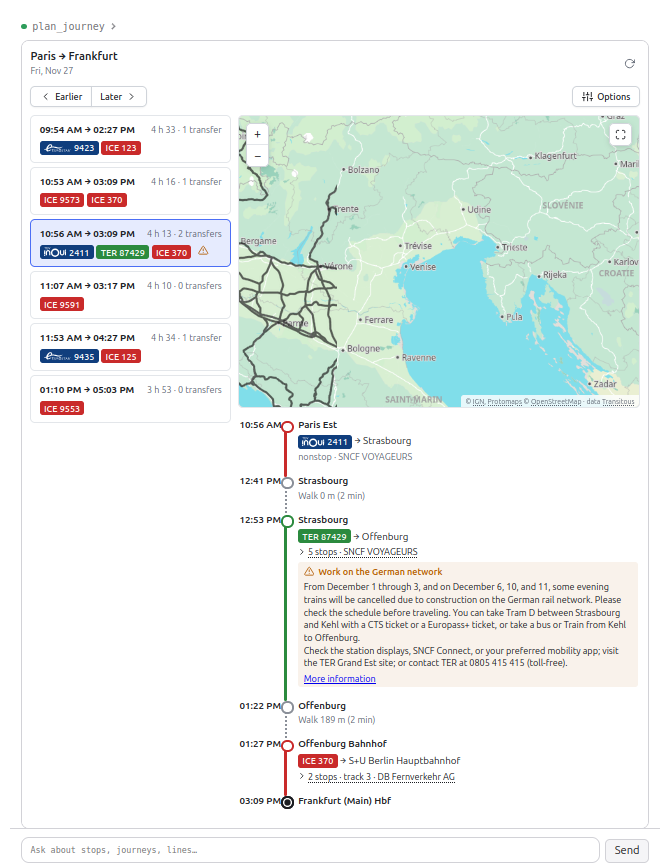
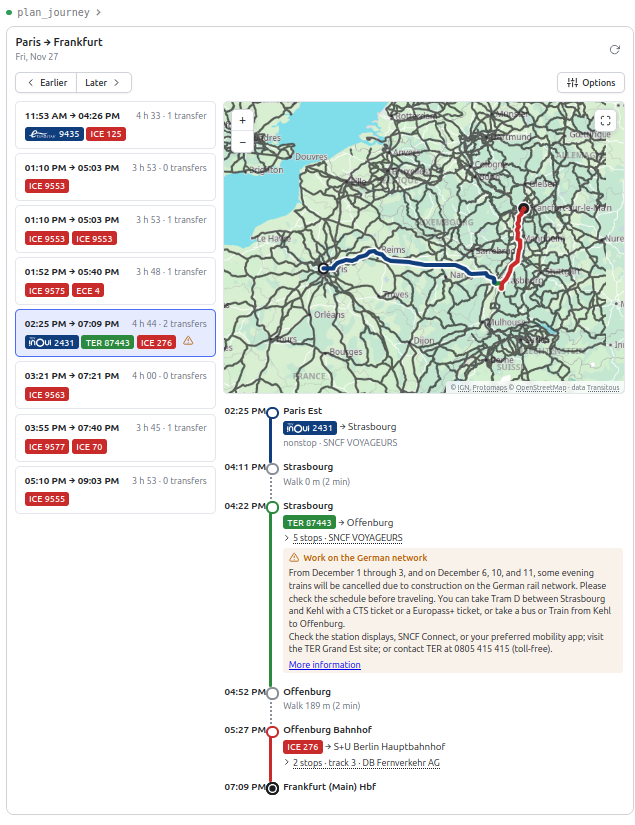
docs: a screenshot and a description of each view in the README, the boards of the operators in 24-hour time
- README: a Views section, with an English screenshot of each view (docs/screenshots/) and what it shows
- home-journey.png: the screenshot of the demo in English
- the boards in the style of an operator (SNCF, DB, SBB, SNCB, NS, RFI, ADIF, National Rail) show their times with
  the 24-hour clock whatever the language, as the boards of the stations: in English, "11:46 AM" did not fit in
  their time columns (on two lines, cut on the RFI board)

diff --git a/ui/src/boards/sncf.ts b/ui/src/boards/sncf.ts
@@ -1,5 +1,5 @@
 // Board of the French railway stations, like the ones of the SNCF stations (and of Carto Tchoo).
-import { esc, lineBadge, time } from "../shared/format";
+import { esc, lineBadge, boardTime } from "../shared/format";
 import { t } from "../shared/i18n";
 import { RAIL_MODES, linePictogram, train } from "../shared/sncf";
 import type { StopTimeDto } from "../shared/types";
@@ -19,7 +19,7 @@ function row({ st, index, arriveBy, tz, classes, alertMark, alertLine, markTheor
   const number = train(st.mode, st.line, st.agency, st.trainNumber)?.number;
   // the end of the trip (origin of an arrival) is the big label: the intermediate stops are on the second line
   const { label, via: stops } = tripEnd(st, arriveBy);
-  const via = stops.map((s) => `<span class="etape">${esc(s.name)} ${time(s.time, tz)}</span>`).join(`<span class="point"> • </span>`);
+  const via = stops.map((s) => `<span class="etape">${esc(s.name)} ${boardTime(s.time, tz)}</span>`).join(`<span class="point"> • </span>`);
   const delay = delayOf(st);
   let status = "";
   let state = "";
@@ -27,7 +27,7 @@ function row({ st, index, arriveBy, tz, classes, alertMark, alertLine, markTheor
     status = `<span class="min deleted">${t("departures.cancelled")}</span>`;
     state = "deleted";
   } else if (delay > 0) {
-    status = `<span class="min" title="${t("departures.expected", { time: time(st.time, tz) })}">${t("departures.delay", { minutes: delay })}</span>`;
+    status = `<span class="min" title="${t("departures.expected", { time: boardTime(st.time, tz) })}">${t("departures.delay", { minutes: delay })}</span>`;
     state = "delayed";
   } else if (markTheoretical && !st.realTime) {
     status = theoreticalMark();
@@ -38,7 +38,7 @@ function row({ st, index, arriveBy, tz, classes, alertMark, alertLine, markTheor
         <div class="main-line">
           <span class="origine">${origin(st)}</span>
           <span class="numero">${esc(number)}</span>
-          <span class="heure">${time(st.scheduledTime ?? st.time, tz)}</span>
+          <span class="heure">${boardTime(st.scheduledTime ?? st.time, tz)}</span>
           <span class="station-label"><span>${esc(label)}</span>${alertMark}${status}</span>
         </div>
         <div class="second-line" title="${esc(stops.map((s) => s.name).join(" • "))}">${via}</div>

diff --git a/ui/src/boards/db.ts b/ui/src/boards/db.ts
@@ -1,6 +1,6 @@
 // Board of the German railway stations, like the timetables posted at the stations of the Deutsche Bahn: yellow
 // "Abfahrt" for the departures, white "Ankunft" for the arrivals, the long-distance trains in red.
-import { esc, lineBadge, time } from "../shared/format";
+import { esc, lineBadge, boardTime } from "../shared/format";
 import { t } from "../shared/i18n";
 import { RAIL_MODES } from "../shared/sncf";
 import type { StopTimeDto } from "../shared/types";
@@ -26,18 +26,18 @@ function product(st: StopTimeDto): string {
 
 function row({ st, index, arriveBy, tz, classes, alertMark, alertLine, markTheoretical }: BoardRow): string {
   const end = tripEnd(st, arriveBy);
-  const via = end.via.map((s) => `${esc(s.name)} ${time(s.time, tz)}`).join(" – ");
+  const via = end.via.map((s) => `${esc(s.name)} ${boardTime(s.time, tz)}`).join(" – ");
   const delay = delayOf(st);
   let status = "";
   if (st.cancelled) status = `<span class="ausfall">${t("departures.cancelled")}</span>`;
   else if (delay > 0)
-    status = `<span class="verspaetung" title="${t("departures.expected", { time: time(st.time, tz) })}">${t("departures.delay", { minutes: delay })}</span>`;
+    status = `<span class="verspaetung" title="${t("departures.expected", { time: boardTime(st.time, tz) })}">${t("departures.delay", { minutes: delay })}</span>`;
   else if (markTheoretical && !st.realTime) status = theoreticalMark();
   const state = [LONG_DISTANCE_MODES.has(st.mode) ? "fern" : "", st.cancelled ? "deleted" : "", classes].filter(Boolean).join(" ");
-  const endTime = end.time ? ` <span class="ziel-zeit">${time(end.time, tz)}</span>` : "";
+  const endTime = end.time ? ` <span class="ziel-zeit">${boardTime(end.time, tz)}</span>` : "";
   return `
     <li class="train ${state}" data-index="${index}">
-      <span class="zeit">${time(st.scheduledTime ?? st.time, tz)}</span>
+      <span class="zeit">${boardTime(st.scheduledTime ?? st.time, tz)}</span>
       <span class="zug">${product(st)}</span>
       <div class="richtung">
         <div class="ziel"><span><strong>${esc(end.label)}</strong>${endTime}</span>${alertMark}${status}</div>

diff --git a/ui/src/boards/ns.ts b/ui/src/boards/ns.ts
@@ -1,6 +1,6 @@
 // Board of the Dutch railway stations, like the departure screens of the NS stations: white on the blue of the NS,
 // the columns Vertrek, Naar, Spoor, Trein, the track on the yellow of the NS, the delays next to the time ("+5").
-import { esc, time } from "../shared/format";
+import { esc, boardTime } from "../shared/format";
 import { t } from "../shared/i18n";
 import { RAIL_MODES } from "../shared/sncf";
 import { delayOf, railwayStationIn, theoreticalMark, trainName, tripEnd, type BoardRow, type CountryBoard } from "./row";
@@ -9,7 +9,7 @@ function row({ st, index, arriveBy, tz, classes, alertMark, alertLine, markTheor
   const end = tripEnd(st, arriveBy);
   const via = end.via.map((s) => esc(s.name)).join(", ");
   const delay = delayOf(st);
-  const late = !st.cancelled && delay > 0 ? `<span class="vertraging" title="${t("departures.expected", { time: time(st.time, tz) })}">+${delay}</span>` : "";
+  const late = !st.cancelled && delay > 0 ? `<span class="vertraging" title="${t("departures.expected", { time: boardTime(st.time, tz) })}">+${delay}</span>` : "";
   let status = "";
   if (st.cancelled) status = `<span class="rijdt-niet">${t("departures.cancelled")}</span>`;
   else if (markTheoretical && !st.realTime) status = theoreticalMark();
@@ -17,7 +17,7 @@ function row({ st, index, arriveBy, tz, classes, alertMark, alertLine, markTheor
   const type = trainName(st)?.category ?? st.line;
   return `
     <li class="train ${st.cancelled ? "deleted" : ""} ${classes}" data-index="${index}">
-      <span class="vertrek">${time(st.scheduledTime ?? st.time, tz)}${late}</span>
+      <span class="vertrek">${boardTime(st.scheduledTime ?? st.time, tz)}${late}</span>
       <div class="naar">
         <div class="bestemming"><span>${esc(end.label)}</span>${alertMark}${status}</div>
         <div class="via" title="${esc(via)}">${via}</div>

diff --git a/ui/src/boards/rfi.ts b/ui/src/boards/rfi.ts
@@ -1,7 +1,7 @@
 // Board of the Italian railway stations, like the arrivals & departures monitors of RFI: the column labels on a yellow
 // band, the rows alternately pale yellow and dark grey, a line per train (brand, category, number, destination in
 // capitals, time, delay, platform).
-import { esc, time } from "../shared/format";
+import { esc, boardTime } from "../shared/format";
 import { t } from "../shared/i18n";
 import { RAIL_MODES } from "../shared/sncf";
 import type { StopTimeDto } from "../shared/types";
@@ -36,7 +36,7 @@ function row({ st, index, arriveBy, tz, classes, alertMark, alertLine, markTheor
   const { brand, category, number } = trainColumns(st);
   const delay = delayOf(st);
   let ritardo = "";
-  if (!st.cancelled && delay > 0) ritardo = `<span title="${t("departures.expected", { time: time(st.time, tz) })}">${delay}</span>`;
+  if (!st.cancelled && delay > 0) ritardo = `<span title="${t("departures.expected", { time: boardTime(st.time, tz) })}">${delay}</span>`;
   else if (!st.cancelled && markTheoretical && !st.realTime) ritardo = theoreticalMark();
   const cancelled = st.cancelled ? `<span class="soppresso">${t("departures.cancelled")}</span>` : "";
   const stops = end.via.map((s) => s.name).join(" · ");
@@ -49,7 +49,7 @@ function row({ st, index, arriveBy, tz, classes, alertMark, alertLine, markTheor
         <div class="nome" title="${esc(stops)}"><span>${esc(end.label)}</span>${alertMark}${cancelled}</div>
         ${alertLine}
       </div>
-      <span class="orario">${time(st.scheduledTime ?? st.time, tz)}</span>
+      <span class="orario">${boardTime(st.scheduledTime ?? st.time, tz)}</span>
       <span class="ritardo">${ritardo}</span>
       <span class="binario" title="${st.track ? t("track", { track: esc(st.track) }) : ""}">${esc(st.track)}</span>
     </li>`;

diff --git a/ui/src/boards/nationalRail.ts b/ui/src/boards/nationalRail.ts
@@ -1,7 +1,7 @@
 // Board of the British railway stations, like the dot-matrix boards of the National Rail stations: amber on black,
 // the columns Time, Destination, Plat, Expected ("On time", the expected time, "Cancelled"), the stops and the operator
 // below the destination.
-import { esc, time } from "../shared/format";
+import { esc, boardTime } from "../shared/format";
 import { t } from "../shared/i18n";
 import { RAIL_MODES } from "../shared/sncf";
 import { delayOf, railwayStationIn, theoreticalMark, tripEnd, type BoardRow, type CountryBoard } from "./row";
@@ -11,12 +11,12 @@ function row({ st, index, arriveBy, tz, classes, alertMark, alertLine, markTheor
   const stops = end.via.map((s) => esc(s.name)).join(", ");
   let expected = "";
   if (st.cancelled) expected = `<span class="cancelled">${t("departures.cancelled")}</span>`;
-  else if (delayOf(st) > 0) expected = `<span class="late" title="${t("departures.expected", { time: time(st.time, tz) })}">${time(st.time, tz)}</span>`;
+  else if (delayOf(st) > 0) expected = `<span class="late" title="${t("departures.expected", { time: boardTime(st.time, tz) })}">${boardTime(st.time, tz)}</span>`;
   else if (st.realTime) expected = `<span>${t("departures.onTime")}</span>`;
   else if (markTheoretical) expected = theoreticalMark();
   return `
     <li class="train ${st.cancelled ? "deleted" : ""} ${classes}" data-index="${index}">
-      <span class="time">${time(st.scheduledTime ?? st.time, tz)}</span>
+      <span class="time">${boardTime(st.scheduledTime ?? st.time, tz)}</span>
       <div class="destination">
         <div class="name"><span>${esc(end.label)}</span>${alertMark}</div>
         <div class="calling" title="${esc(stops)}">${stops}</div>

diff --git a/ui/src/boards/adif.ts b/ui/src/boards/adif.ts
@@ -1,7 +1,7 @@
 // Board of the Spanish railway stations, like the boards of the Adif stations: the bilingual title "Salidas
 // DEPARTURES" on a dark band, the bilingual column labels in green, then on cream a line per train: time on a green
 // column, destination in capitals, operator and product ("renfe" over "AVE"), number, platform, remarks in orange.
-import { esc, lineBadge, time } from "../shared/format";
+import { esc, lineBadge, boardTime } from "../shared/format";
 import { t } from "../shared/i18n";
 import { RAIL_MODES } from "../shared/sncf";
 import type { StopTimeDto } from "../shared/types";
@@ -27,12 +27,12 @@ function row({ st, index, arriveBy, tz, classes, alertMark, alertLine, markTheor
   let observaciones = "";
   if (st.cancelled) observaciones = `<span class="cancelado">${t("departures.cancelled")}</span>`;
   else if (delay > 0)
-    observaciones = `<span class="retraso" title="${t("departures.expected", { time: time(st.time, tz) })}">${t("departures.delay", { minutes: delay })}</span>`;
+    observaciones = `<span class="retraso" title="${t("departures.expected", { time: boardTime(st.time, tz) })}">${t("departures.delay", { minutes: delay })}</span>`;
   else if (markTheoretical && !st.realTime) observaciones = theoreticalMark();
   const stops = end.via.map((s) => s.name).join(", ");
   return `
     <li class="train ${st.cancelled ? "deleted" : ""} ${classes}" data-index="${index}">
-      <span class="hora">${time(st.scheduledTime ?? st.time, tz)}</span>
+      <span class="hora">${boardTime(st.scheduledTime ?? st.time, tz)}</span>
       <div class="destino">
         <div class="nombre" title="${esc(stops)}"><span>${esc(end.label)}</span>${alertMark}</div>
         ${alertLine}

diff --git a/ui/src/boards/sbb.ts b/ui/src/boards/sbb.ts
@@ -1,7 +1,7 @@
 // Board of the Swiss railway stations, like the departure boards of the SBB stations: white on royal blue under the
 // trilingual title "Départ Abfahrt Partenza", a line per train (pictogram of its category, time, a few stops then the
 // destination, track) and the remarks in yellow (delays, cancellations).
-import { esc, time } from "../shared/format";
+import { esc, boardTime } from "../shared/format";
 import { t } from "../shared/i18n";
 import { RAIL_MODES } from "../shared/sncf";
 import type { StopTimeDto } from "../shared/types";
@@ -27,12 +27,12 @@ function row({ st, index, arriveBy, tz, classes, alertMark, alertLine, markTheor
   const delay = delayOf(st);
   let remark = "";
   if (st.cancelled) remark = `<span>${t("departures.cancelled")}</span>`;
-  else if (delay > 0) remark = `<span title="${t("departures.expected", { time: time(st.time, tz) })}">+${delay}'</span>`;
+  else if (delay > 0) remark = `<span title="${t("departures.expected", { time: boardTime(st.time, tz) })}">+${delay}'</span>`;
   else if (markTheoretical && !st.realTime) remark = theoreticalMark();
   return `
     <li class="train ${st.cancelled ? "deleted" : ""} ${classes}" data-index="${index}">
       <span class="kategorie">${pictogram(st)}</span>
-      <span class="zeit">${time(st.scheduledTime ?? st.time, tz)}</span>
+      <span class="zeit">${boardTime(st.scheduledTime ?? st.time, tz)}</span>
       <div class="ziel">
         <div class="linie" title="${esc([...end.via.map((s) => s.name), end.label].join(" · "))}">
           <span class="via">${near.map((s) => esc(s.name)).join(" ")}</span><span class="nach">${esc(end.label)}</span>${alertMark}

diff --git a/ui/src/boards/sncb.ts b/ui/src/boards/sncb.ts
@@ -1,6 +1,6 @@
 // Board of the Belgian railway stations, like the screens of the SNCB / NMBS stations: white on the blue of the SNCB,
 // the delays in yellow ("+5'"), the cancellations in red.
-import { esc, lineBadge, time } from "../shared/format";
+import { esc, lineBadge, boardTime } from "../shared/format";
 import { t } from "../shared/i18n";
 import { RAIL_MODES } from "../shared/sncf";
 import type { StopTimeDto } from "../shared/types";
@@ -19,11 +19,11 @@ function row({ st, index, arriveBy, tz, classes, alertMark, alertLine, markTheor
   const delay = delayOf(st);
   let remark = "";
   if (st.cancelled) remark = `<span class="supprime">${t("departures.cancelled")}</span>`;
-  else if (delay > 0) remark = `<span class="retard" title="${t("departures.expected", { time: time(st.time, tz) })}">+${delay}'</span>`;
+  else if (delay > 0) remark = `<span class="retard" title="${t("departures.expected", { time: boardTime(st.time, tz) })}">+${delay}'</span>`;
   else if (markTheoretical && !st.realTime) remark = theoreticalMark();
   return `
     <li class="train ${st.cancelled ? "deleted" : ""} ${classes}" data-index="${index}">
-      <span class="heure">${time(st.scheduledTime ?? st.time, tz)}</span>
+      <span class="heure">${boardTime(st.scheduledTime ?? st.time, tz)}</span>
       <span class="trein">${trein(st)}</span>
       <div class="destination">
         <div class="nom"><span>${esc(end.label)}</span>${alertMark}${remark}</div>

diff --git a/ui/src/shared/format.ts b/ui/src/shared/format.ts
@@ -10,14 +10,22 @@ export function esc(value: string | number | null | undefined): string {
 }
 
 /** `HH:mm` of an ISO date, in the time zone of the place when known. */
-export function time(iso: string | null | undefined, tz?: string | null): string {
+export function time(iso: string | null | undefined, tz?: string | null, hour24 = false): string {
   if (!iso) return "--:--";
-  const options: Intl.DateTimeFormatOptions = { hour: "2-digit", minute: "2-digit" };
+  const options: Intl.DateTimeFormatOptions = { hour: "2-digit", minute: "2-digit", ...(hour24 && { hourCycle: "h23" }) };
   try {
     return new Date(iso).toLocaleTimeString(hostLocale(), tz ? { ...options, timeZone: tz } : options);
   } catch {
     return new Date(iso).toLocaleTimeString(hostLocale(), options);
   }
+}
+
+/**
+ * `HH:mm` of an ISO date on the boards in the style of an operator: 24-hour clock whatever the language, as on the
+ * boards of the stations (the 12-hour clock of English would not fit in their time columns).
+ */
+export function boardTime(iso: string | null | undefined, tz?: string | null): string {
+  return time(iso, tz, true);
 }
 
 /** Day of an ISO date, e.g. "Fri 9 Oct". */

diff --git a/ui/src/shared/format.test.ts b/ui/src/shared/format.test.ts
@@ -1,5 +1,6 @@
 import { describe, expect, it } from "vitest";
-import { legColors, lineColor, shade } from "./format";
+import { boardTime, legColors, lineColor, shade, time } from "./format";
+import { setLocale } from "./i18n";
 import { SNCF_BOARD_BLUE } from "./sncf";
 
 describe("colors of the lines", () => {
@@ -35,5 +36,19 @@ describe("colors of the lines", () => {
     expect(third).toBe("#ec0016");
     // after a train of another color
     expect(ter).toBe("#ec0016");
+  });
+});
+
+describe("times", () => {
+  it("shows the boards in the style of an operator with the 24-hour clock, whatever the language", () => {
+    setLocale("en-US");
+    try {
+      expect(time("2026-11-27T13:05:00Z", "UTC")).toBe("01:05 PM");
+      expect(boardTime("2026-11-27T13:05:00Z", "UTC")).toBe("13:05");
+      expect(boardTime("2026-11-27T00:05:00Z", "UTC")).toBe("00:05");
+      expect(boardTime(null)).toBe("--:--");
+    } finally {
+      setLocale(undefined);
+    }
   });
 });

diff --git a/README.md b/README.md
@@ -53,6 +53,56 @@ without credits), and everything runs in the browser.
 
 More in the [demo FAQ](DEMO.md).
 
+## Views
+
+Each tool with a view renders it in the hosts that support MCP Apps, in the language of the host (screenshots in English).
+
+### Journey: `plan_journey`
+
+The connections on the left, with their times, duration, transfers and the badges of their lines; the legs of the
+selected connection on the map, and its detailed itinerary (stops, operators) below. Earlier and Later load the
+neighbouring connections; Options sets the transit modes, the transfers, the walking time and speed, wheelchair and bike.
+
+<p align="center"><img src="docs/screenshots/plan-journey.png" width="700" alt="plan_journey view: connections from Lyon Part-Dieu to Geneva Cornavin, the map and the itinerary of the first one"></p>
+
+### Departure board: `departures`
+
+The next departures or arrivals of a stop, in real time (delays, cancellations, tracks). In a railway station, a tab per
+line or mode of the station (trains, RER, metro, bus…); the trains are shown in the style of the boards of the operator
+when there is one (SNCF, SNCB, SBB, DB, NS, RFI, ADIF, National Rail).
+
+<p align="center"><img src="docs/screenshots/departures.png" width="700" alt="departures view: the train departures of Paris Gare de Lyon, in the style of the SNCF boards, with tabs for the RER A, D, R, the metro and the bus"></p>
+
+### Trip timeline: `trip_details`
+
+The stops of a vehicle, with their times and tracks, and its current position along the line.
+
+<p align="center"><img src="docs/screenshots/trip-details.png" width="700" alt="trip_details view: the stops of the TGV INOUI 5382 from Lyon Perrache to Rennes"></p>
+
+### Area: `explore_area`
+
+The stops and the lines around a place, colored by mode, with the list of the lines above the map.
+
+<p align="center"><img src="docs/screenshots/explore-area.png" width="560" alt="explore_area view: the stops and lines within 500 m of Place Bellecour in Lyon"></p>
+
+### Line: `route_details`
+
+The path of a line and its stops.
+
+<p align="center"><img src="docs/screenshots/route-details.png" width="520" alt="route_details view: the path and stops of tram T1 in Lyon"></p>
+
+### Isochrone: `reachability`
+
+The stops reachable by public transport from a place within a travel time, colored by the time to reach them.
+
+<p align="center"><img src="docs/screenshots/reachability.png" width="560" alt="reachability view: the stops reachable within 30 minutes from Lyon Part-Dieu"></p>
+
+### Shared mobility: `rentals`
+
+The stations and free-floating vehicles (bikes, scooters, cars) around a place, by provider.
+
+<p align="center"><img src="docs/screenshots/rentals.png" width="540" alt="rentals view: the shared bikes and scooters of four providers around Châtelet, Paris"></p>
+
 ## Documentation
 
 [MCP server reference](docs/MCP-SERVER.md): the tools, the configuration and the setup of the MCP clients
